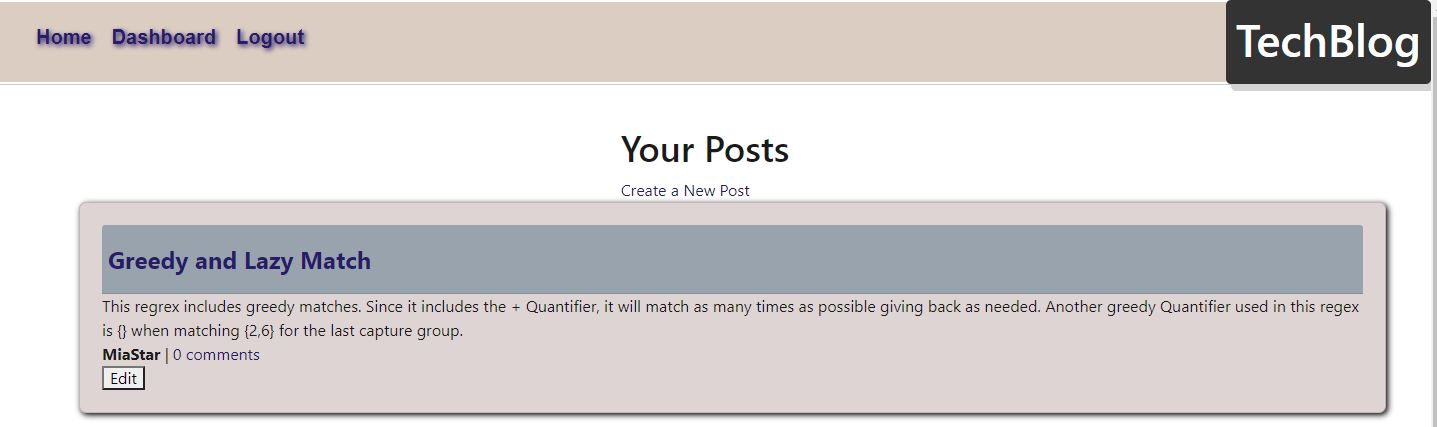
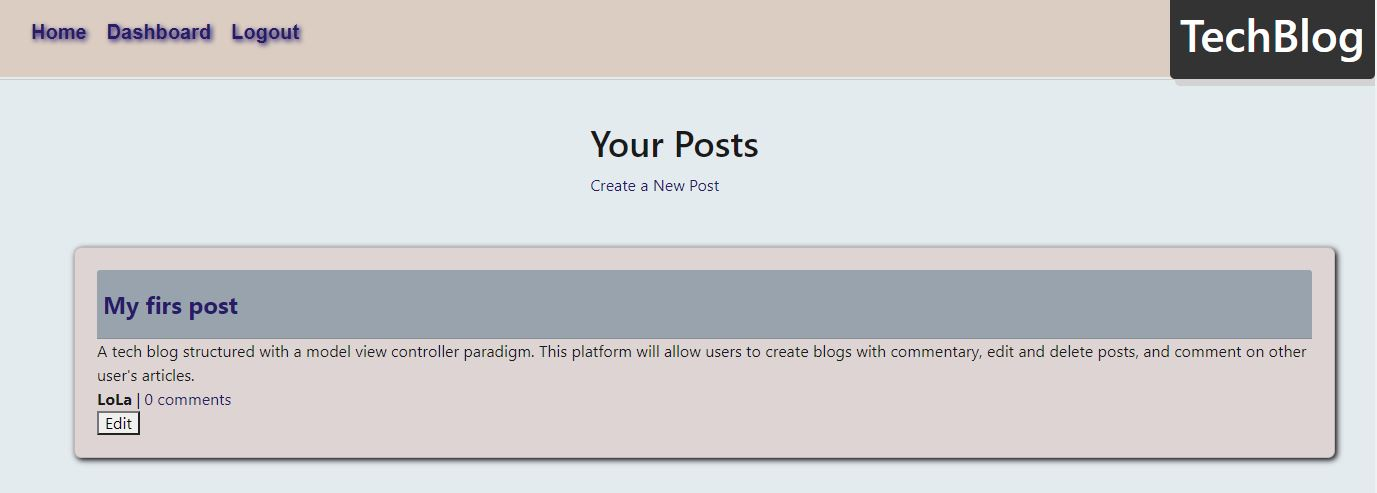
clean up code

diff --git a/public/css/style.css b/public/css/style.css
@@ -1,12 +1,19 @@
 body {
   height: 100vh;
-  background-image: url("../public/images/techblogs1.jpg");
+  background-color: #e4ebef;
+  /* background-image: url("/images/techblogs6.jpg"); */
   background-size: cover;
   background-repeat: no-repeat;
   display: flex;
   align-items: center;
-  /* justify-content: center; */
   flex-direction: column;
+}
+
+.mainback {
+  background-image: url("/images/techblogs8.jpg");
+  background-size: cover;
+  background-repeat: no-repeat;
+  width: 100%;
 }
 
 nav {
@@ -19,8 +26,6 @@ nav {
 }
 
 nav ul {
-  /* display: inline;
-  padding: 50px; */
   font-size: 20px;
   text-decoration: none;
   text-align: right;
@@ -82,7 +87,7 @@ header {
 }
 
 header h1 {
-  font-size: 0.94em;;
+  font-size: 0.94em;
 }
 
 main {
@@ -114,7 +119,7 @@ p1 {
   margin-right: 570px;
 }
 
-a{
+a {
   color: #271b6a;
   text-decoration: none;
 }
@@ -148,13 +153,13 @@ a{
   padding: 22px;
   width: 90%;
   margin-left: 100px;
+  margin-top: 50px;
 }
 
 .card .card-header {
   padding: 0.375rem;
   background-color: #99a3ad;
   font-weight: bold;
-
 }
 
 .btn-success {
@@ -215,6 +220,14 @@ footer {
   height: 580px;
 }
 
-.post-head {  
+.post-head {
   padding: 2px;
+}
+
+.comment-form {
+  width: 100%;
+  display: flex;
+  flex-direction: column;
+  justify-content: center;
+  align-items: center;
 }
